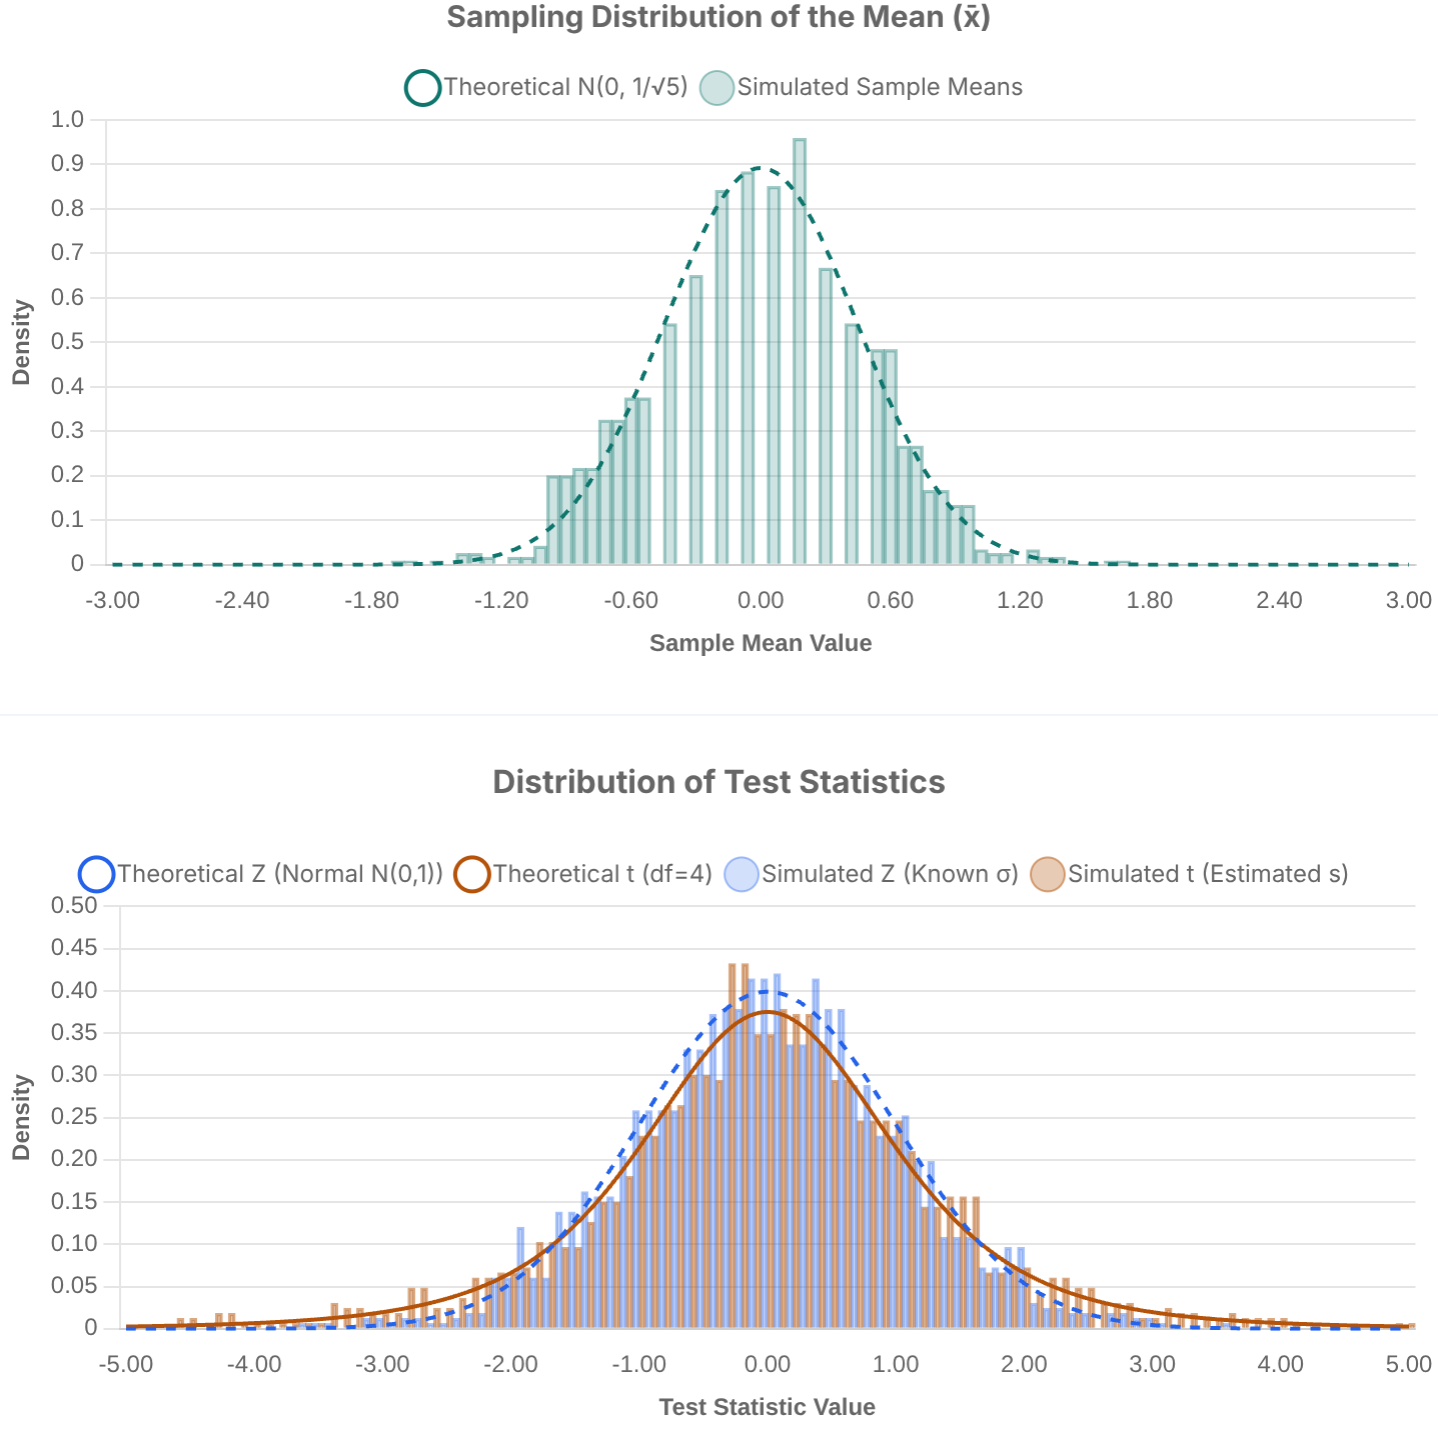
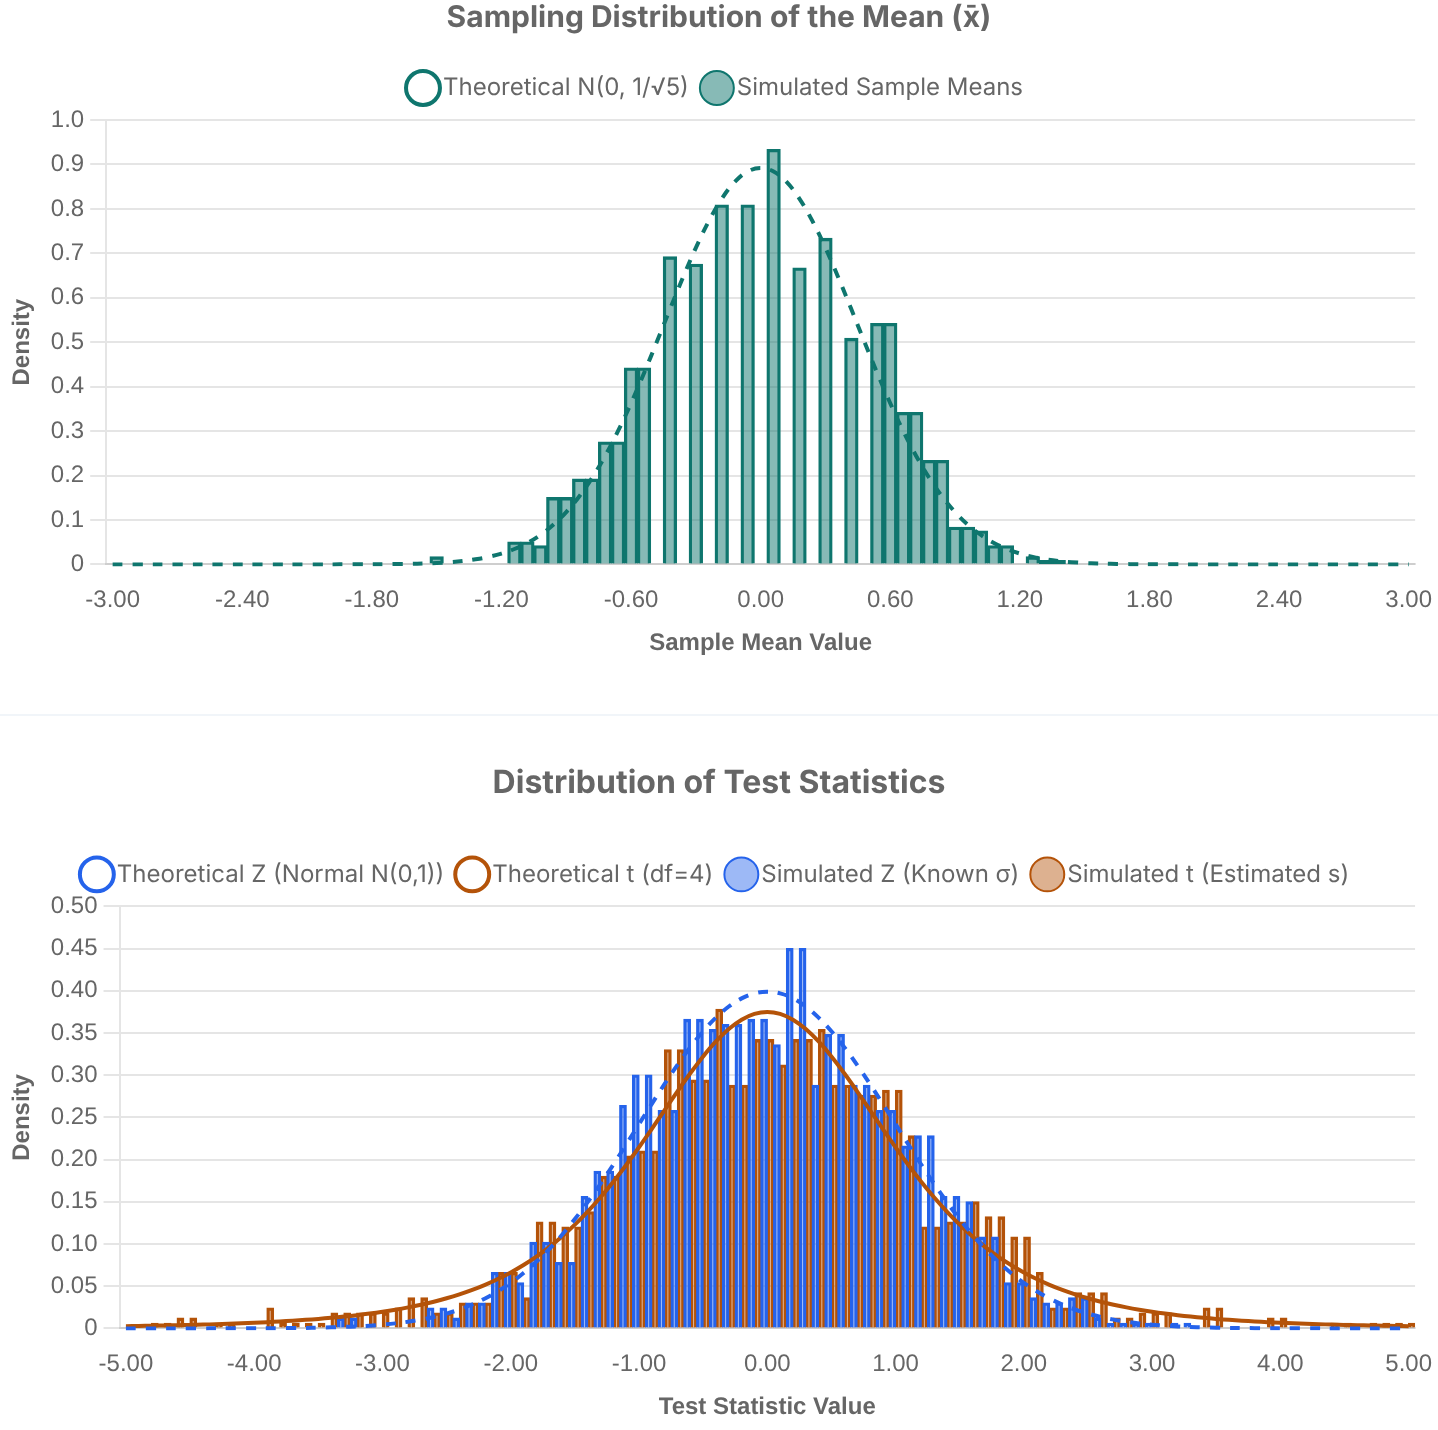
Solidify histogram colours on the z- vs t-distribution demo
The sample-mean, z, and t bars were translucent Chart.js fills. Raise those fills and use opaque token strokes so this demo sits closer to the other library figures. Recapture the Book still in the same frame. Leave the citation version at 0.1.8.

diff --git a/statistics/z_distribution_vs_t_distribution.html b/statistics/z_distribution_vs_t_distribution.html
@@ -446,8 +446,8 @@
                                 return val;
                             }),
                             type: 'bar',
-                            backgroundColor: statsViz.rgba('--viz-group-b', 0.2),
-                            borderColor: statsViz.rgba('--viz-group-b', 0.4),
+                            backgroundColor: statsViz.rgba('--viz-group-b', 0.5),
+                            borderColor: statsViz.color('--viz-group-b'),
                             borderWidth: 1,
                             barPercentage: 1.0,
                             categoryPercentage: 1.0,
@@ -566,8 +566,8 @@
                                 return val;
                             }),
                             type: 'bar',
-                            backgroundColor: statsViz.rgba('--viz-group-a', 0.2),
-                            borderColor: statsViz.rgba('--viz-group-a', 0.4),
+                            backgroundColor: statsViz.rgba('--viz-group-a', 0.45),
+                            borderColor: statsViz.color('--viz-group-a'),
                             borderWidth: 1,
                             barPercentage: 1.0,
                             categoryPercentage: 1.0,
@@ -589,8 +589,8 @@
                                 return val;
                             }),
                             type: 'bar',
-                            backgroundColor: statsViz.rgba('--viz-group-c', 0.3),
-                            borderColor: statsViz.rgba('--viz-group-c', 0.5),
+                            backgroundColor: statsViz.rgba('--viz-group-c', 0.45),
+                            borderColor: statsViz.color('--viz-group-c'),
                             borderWidth: 1,
                             barPercentage: 1.0,
                             categoryPercentage: 1.0,

diff --git a/CHANGELOG.md b/CHANGELOG.md
@@ -9,6 +9,8 @@ and this project adheres to [Semantic Versioning](https://semver.org/spec/v2.0.0
 
 ### Changed
 
+- The z-distribution vs t-distribution histograms are more solid. Simulated sample means move from fill 0.2 and border 0.4 to fill 0.5 with an opaque group-b stroke. Simulated z bars move from fill 0.2 and border 0.4 to fill 0.45 with an opaque group-a stroke. Simulated t bars move from fill 0.3 and border 0.5 to fill 0.45 with an opaque group-c stroke, so the two overlapping histograms stay the same strength. The three theoretical curves stay stroke-only. The Book chapter still is recaptured in the same 1438×1430 frame. The citation version is unchanged.
+
 - Book view path introductions in Chapters 2–4 no longer end with the two sentences that announced a ten-question review and said the track ends after it. Each “By the end you can…” sentence stays. Chapter 1 drops the paragraph that listed the three sub-paths, told the reader to work the demos in order, announced the 10-question Learn-mode self-test, and named Why, Try this, What’s next?, and Check your understanding. Chapters 2 and 3 drop the paragraph that only listed section titles already in the contents. In “Why describe data first?”, “by the end of the track” becomes “by the end of the chapter.” Chapter 1’s “This first sub-path”, “The next sub-path”, and “The last sub-path” stay, as do the Book overview, the learning goals, What’s next?, and the Chapter 1 wrap. The citation version is unchanged.
 
 - The live addresses for this library now use the forthcoming repository name. The public site is https://yiuhong.github.io/project-viz/ and the source is https://github.com/yiuhong/project-viz. Preferred citations, CITATION.cff, the URL fields in site-meta.js, Cite & reuse, Licenses, the home colophon, README, CONTRIBUTING, and the LICENSE notice use those addresses. The Pages folder noted for the native app is `/project-viz/`. Book view status lines on Chapters 1–4 name the library Project Viz, and the Chapter 1 close calls this chapter a living draft aligned with the Project Viz library. The citation version is unchanged.
